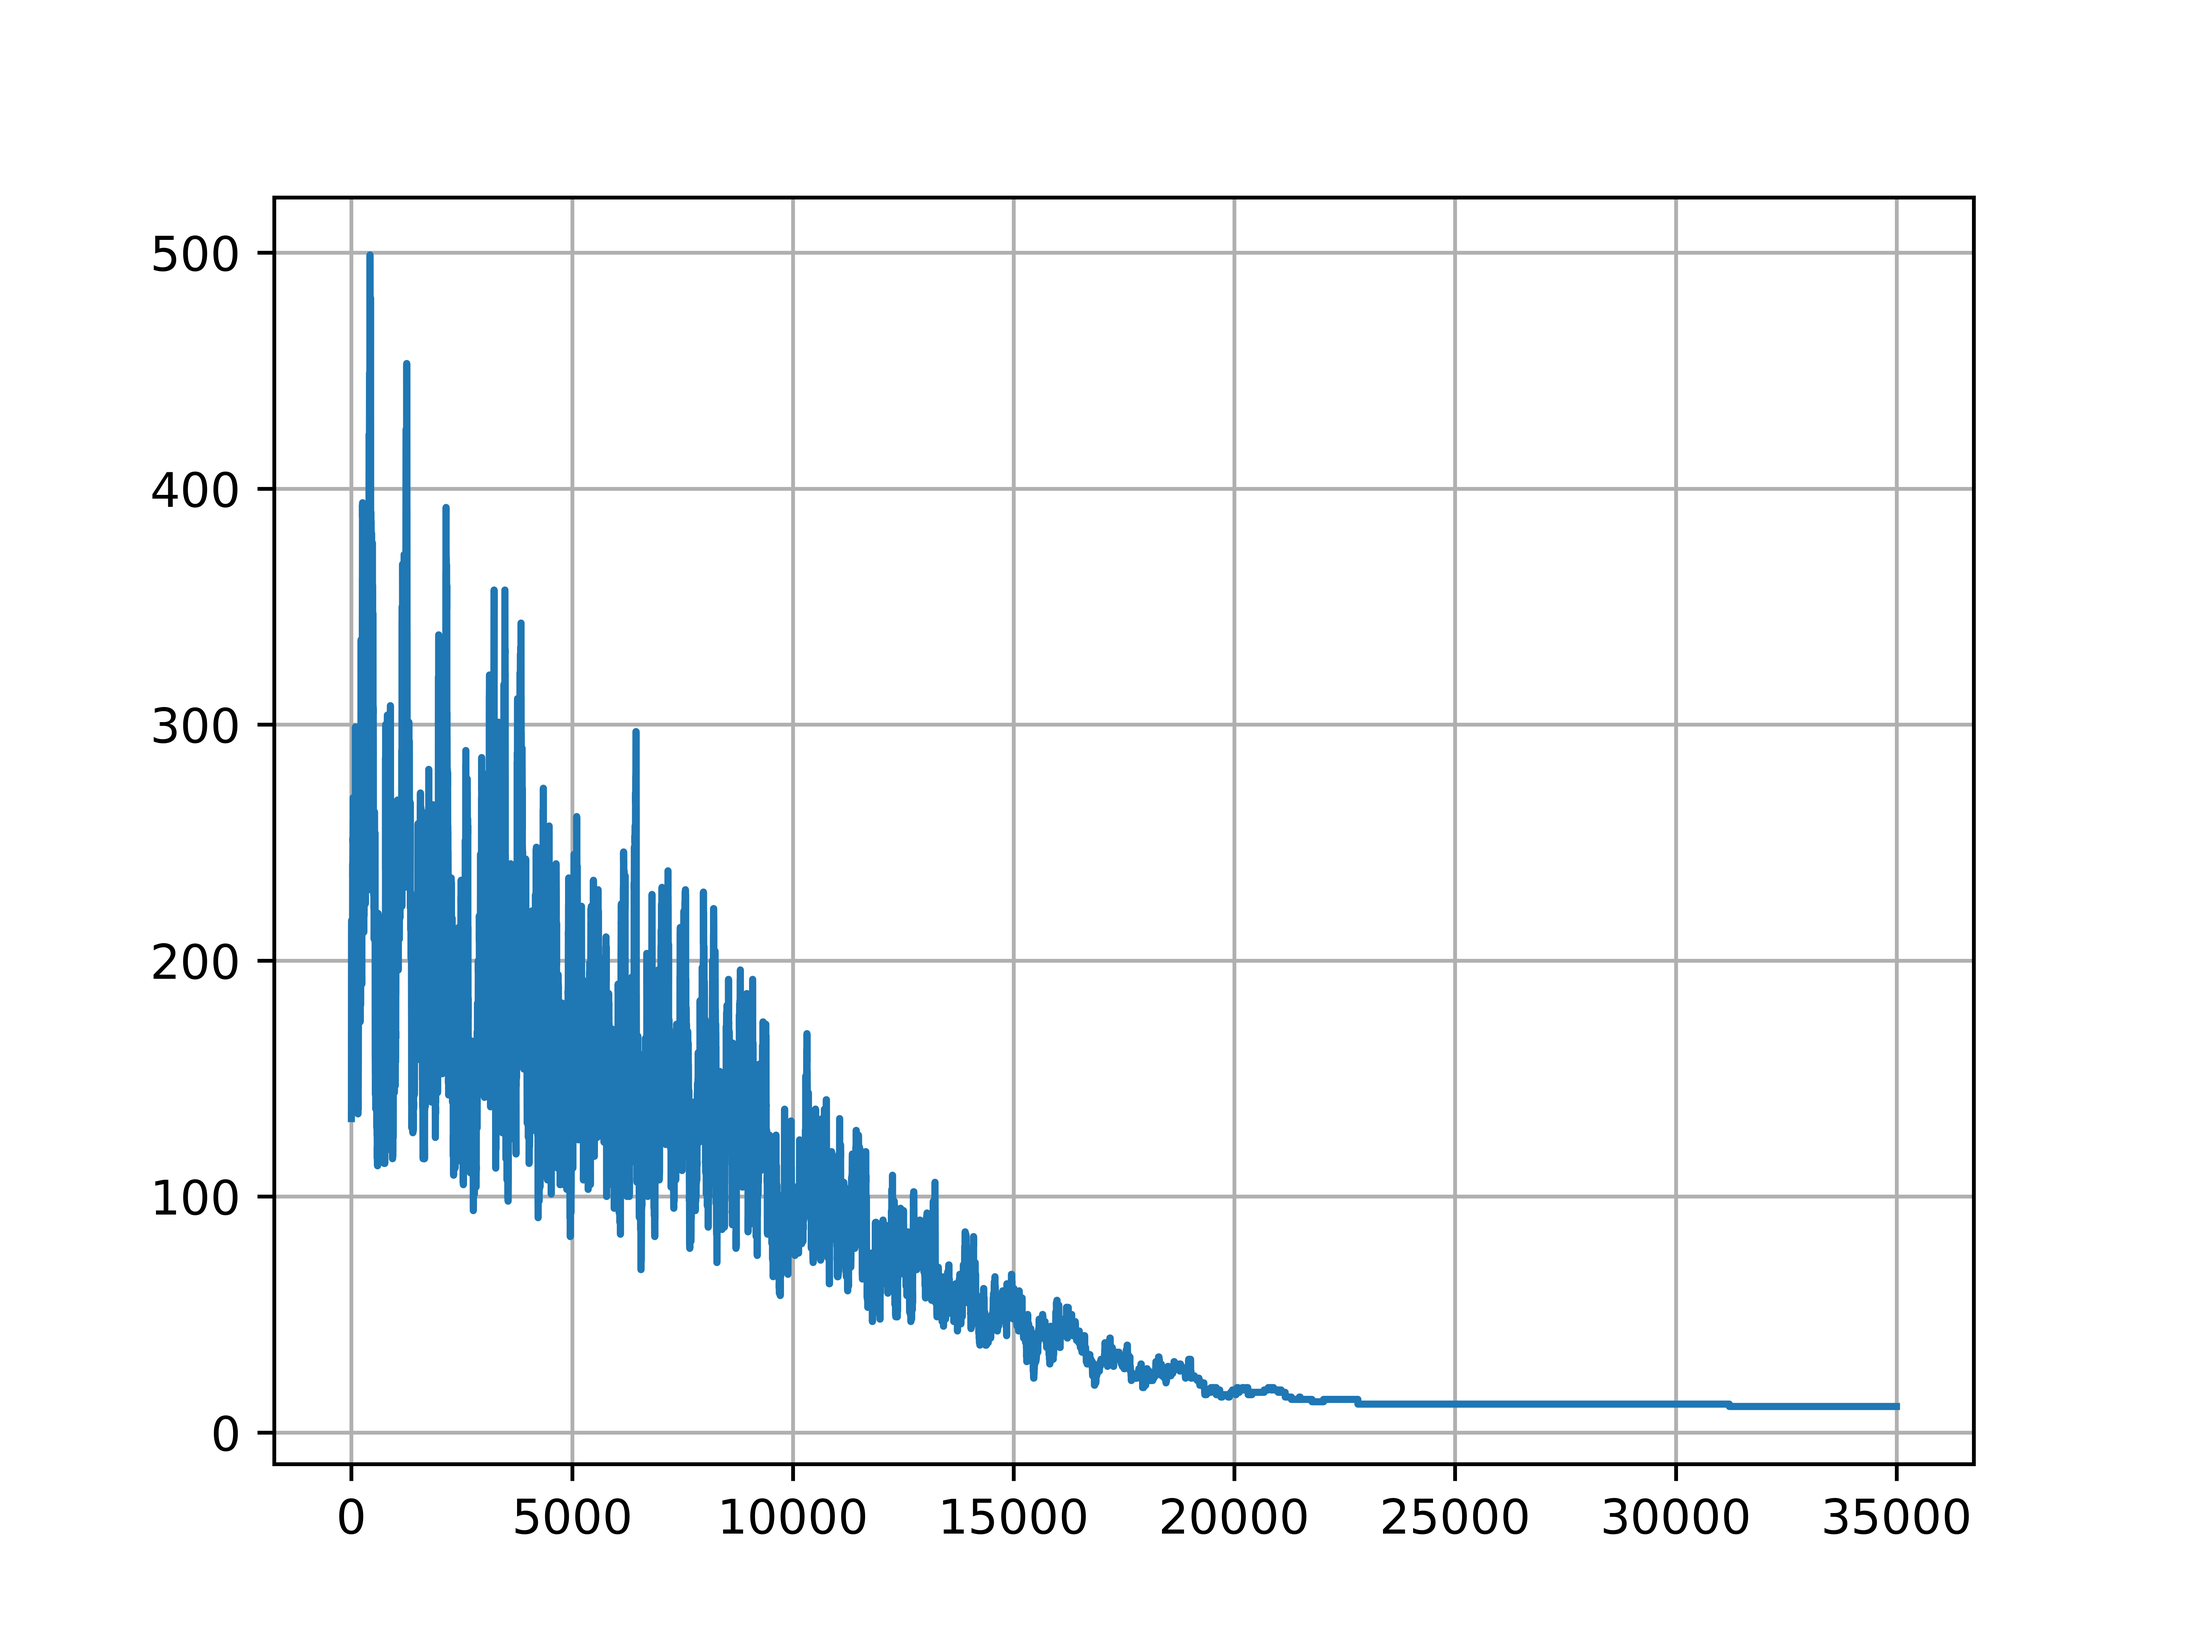
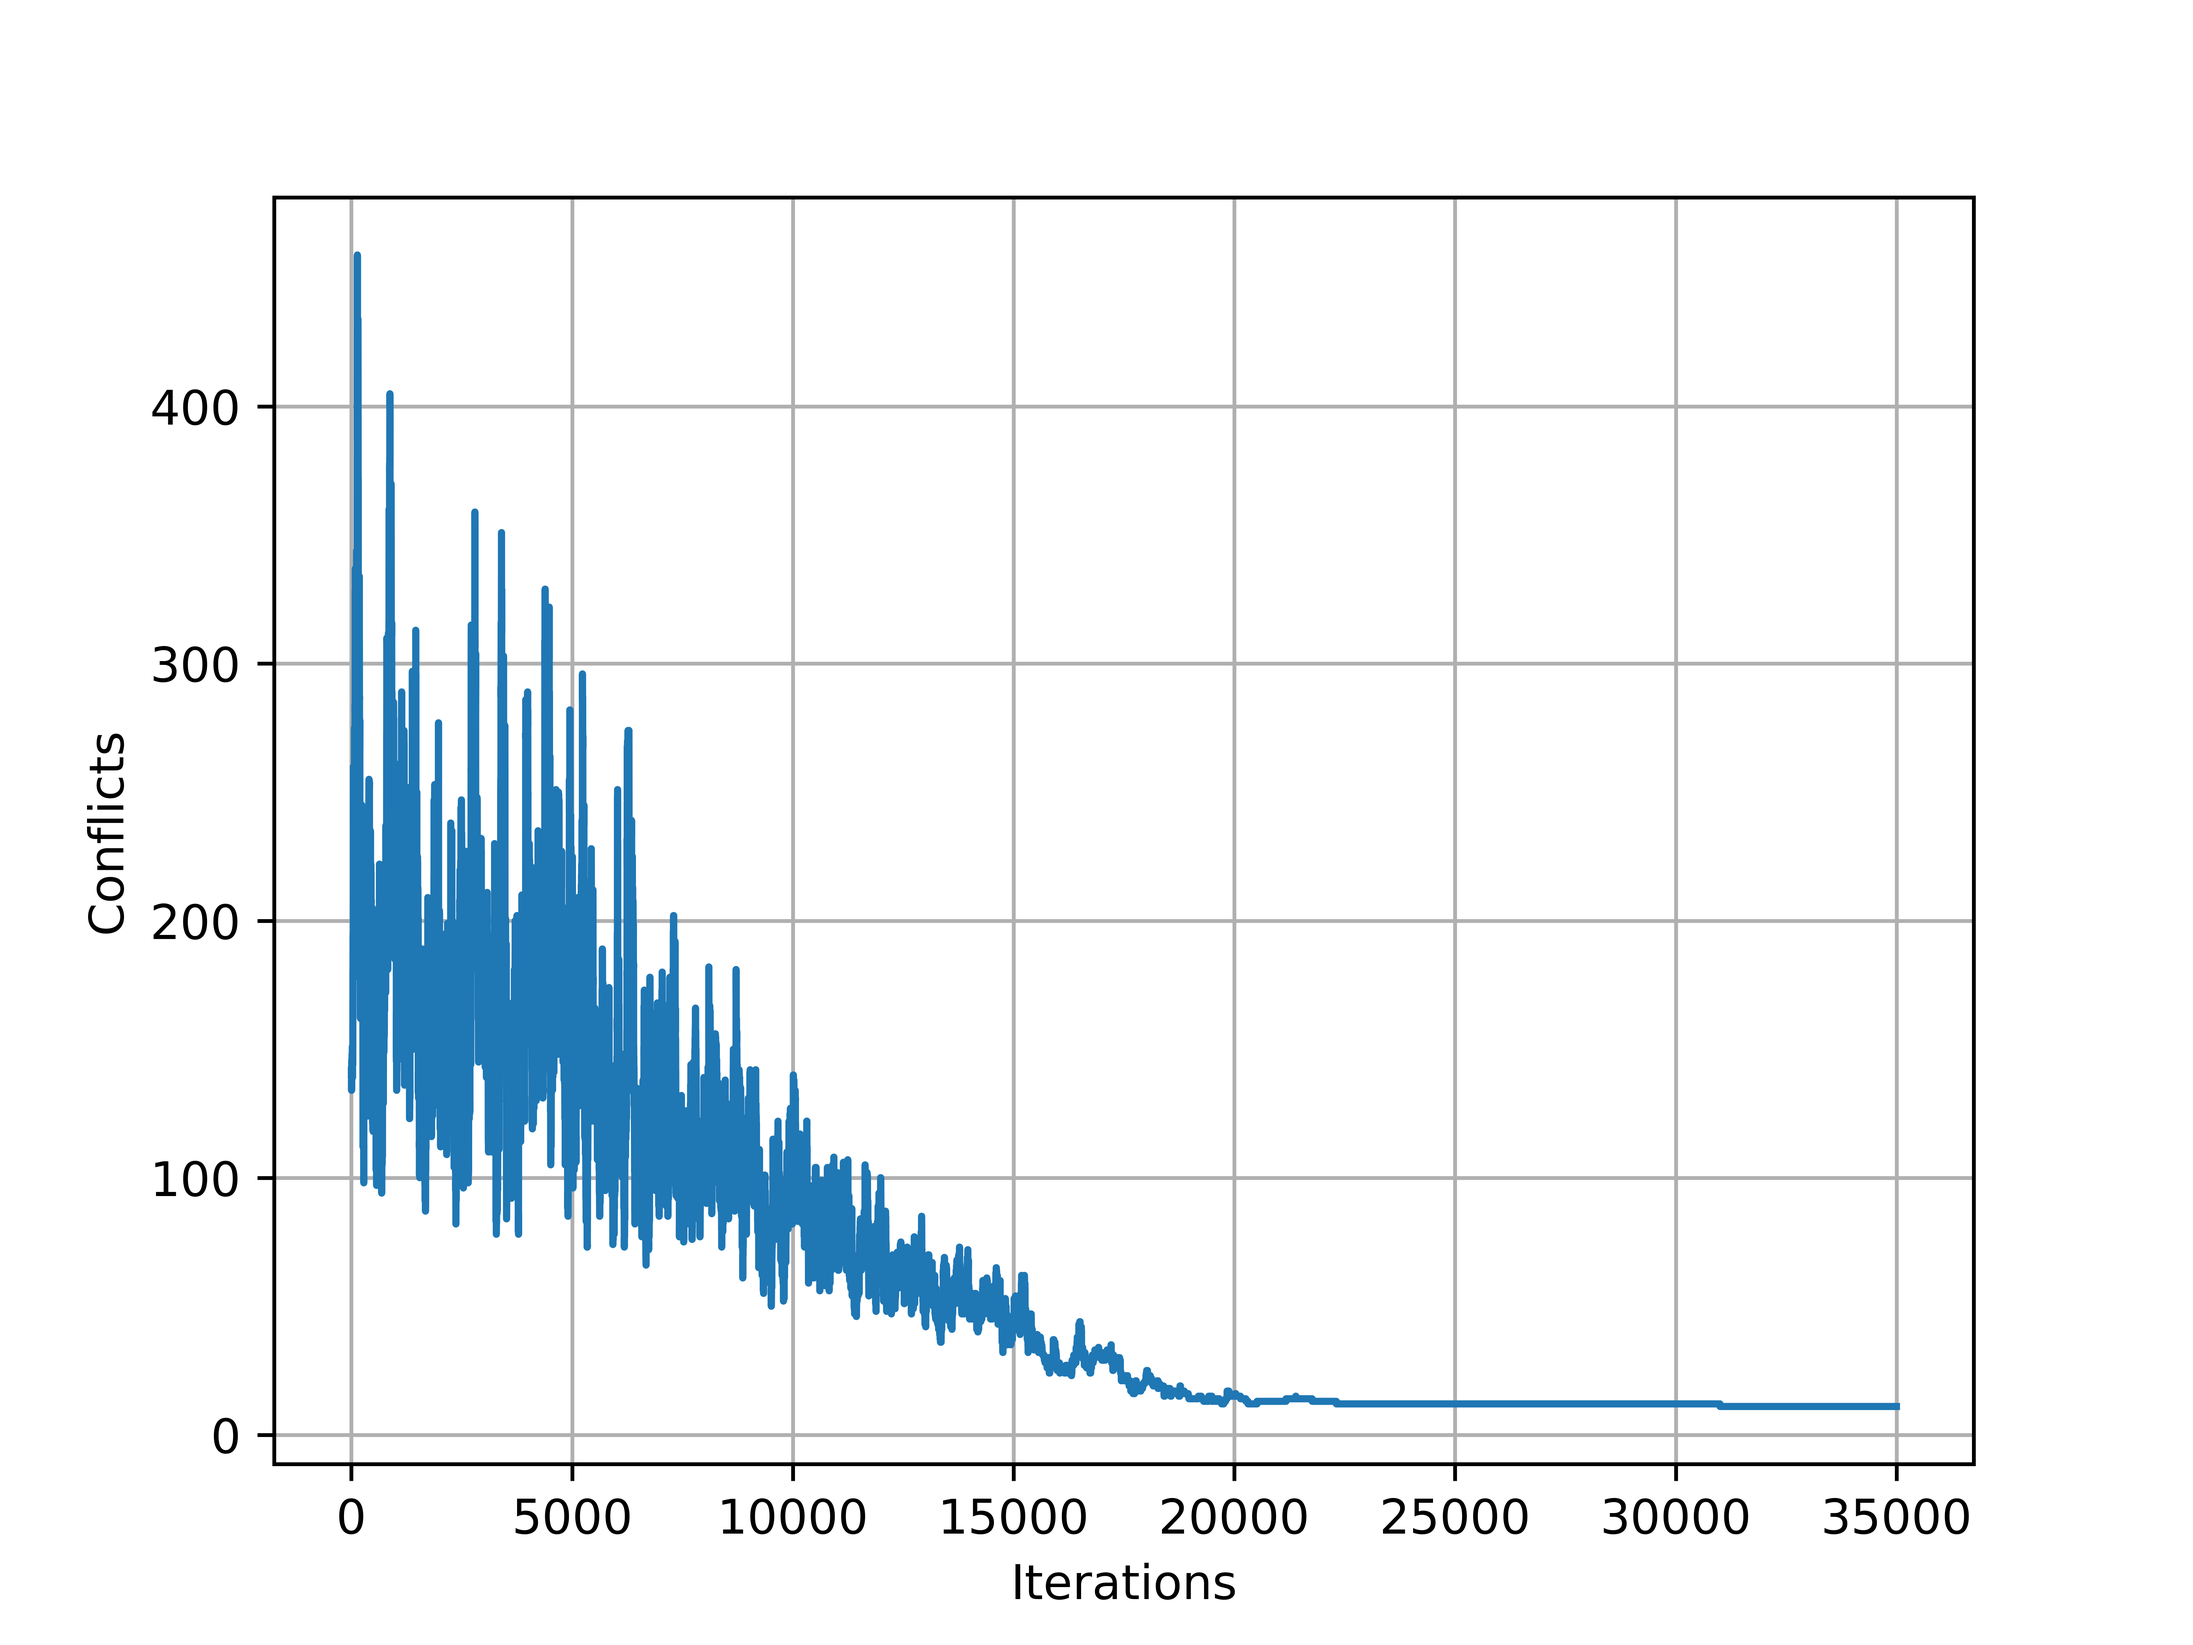
merge

diff --git a/code/main.py b/code/main.py
@@ -12,6 +12,7 @@ import pandas as pd
 from algorithms.planner import Planner
 from conflicts import find_course_conflicts
 from algorithms.semirandom import semirandom
+from algorithms.randommethod import random_method
 from store import store
 import loader
 import checker
@@ -43,21 +44,22 @@ def main():
 
     #planner = Planner(classrooms_list)
 
-    calls = 50; min_points = 100000
-    while calls > 0:
-        planner = Planner(classrooms_list)
-        semirandom(course_set, classrooms_list, planner, days, timeslots)
-        student_dict = planner.create_student_dict(students_set)
-        points = checker.checker(course_set, student_dict)
-        if points < min_points:
-            min_points = points
-            print(min_points)
-            store(students_set, planner)
-        calls -= 1
-
-    #store(students_set, planner)
-
-    #print(checker.checker(course_set))
+    # calls = 50; min_points = 100000
+    # while calls > 0:
+    #     planner = Planner(classrooms_list)
+    #     semirandom(course_set, classrooms_list, planner, days, timeslots)
+    #     student_dict = planner.create_student_dict(students_set)
+    #     points = checker.checker(course_set, student_dict)
+    #     if points < min_points:
+    #         min_points = points
+    #         print(min_points)
+    #         store(students_set, planner)
+    #     calls -= 1
+    planner = Planner(classrooms_list)
+    semirandom(course_set, classrooms_list, planner, days, timeslots)
+    student_dict = planner.create_student_dict(students_set)
+    # points = checker.checker(course_set, student_dict)
+    # print(points)
 
 
     return course_set, student_dict

diff --git a/code/distribution.py b/code/distribution.py
@@ -12,16 +12,16 @@ import matplotlib.pyplot as plt
 from main import main
 
 points = []
-N = 200
+N = 500
 for x in range(N):
     course_set, student_dict = main()
-    print(x)
+    # print(x)
     print(checker.checker(course_set, student_dict))
     points.append(checker.checker(course_set, student_dict))
 
 print("\n Average: " + str(mean(points)))
-plt.hist(points, range=(1300, 2000), color='midnightblue', edgecolor='mediumblue', density=True, bins=28)
-plt.xlim(1300, 2000)
+plt.hist(points, range=(1000, 1700), color='midnightblue', edgecolor='mediumblue', density=True, bins=28)
+plt.xlim(1000, 1700)
 plt.title(f"Probability distribution of maluspoints across {N} runs")
 plt.xlabel("Maluspoints")
 plt.ylabel("Probability")

diff --git a/code/algorithms/randommethod.py b/code/algorithms/randommethod.py
@@ -22,8 +22,7 @@ def random_method(course_set, planner, classrooms_list, days, timeslots):
             day = random.choice(days)
             time = random.choice (timeslots)
             planner.insert_activity(activity, room, day, time)
-            #planner.plan_activity(classrooms_list[classrooms_list.index(activity._room):], activity)
+            planner.plan_activity(classrooms_list[classrooms_list.index(activity._room):], activity)
             activity._room = room
         print(activity._name)
-
         planner.plan_activity(classrooms_list[classrooms_list.index(activity._room):], activity)

diff --git a/code/algorithms/lecture_climber.py b/code/algorithms/lecture_climber.py
@@ -98,6 +98,8 @@ class HillClimber:
     def plot(self):
         plt.plot(self.plotx, self.ploty)
         plt.grid()
+        plt.xlabel("Iterations")
+        plt.ylabel("Conflicts")
         plt.savefig('code/algorithms/plots/climber.png', dpi=1000)
 
     def __str__(self):
@@ -109,9 +111,9 @@ class HillClimber:
         return string
 
 
-# hill = HillClimber(course_set)
-# print(hill)
-# print()
-# hill.run()
-# print(hill)
-# hill.plot()
+hill = HillClimber(course_set)
+print(hill)
+print()
+hill.run()
+print(hill)
+hill.plot()

diff --git a/code/algorithms/lecture_annealing.py b/code/algorithms/lecture_annealing.py
@@ -100,6 +100,8 @@ class Annealing:
     def plot(self):
         plt.plot(self.plotx, self.ploty)
         plt.grid()
+        plt.xlabel("Iterations")
+        plt.ylabel("Conflicts")
         plt.savefig('code/algorithms/plots/annealing.png', dpi=1000)
 
     def __str__(self):
